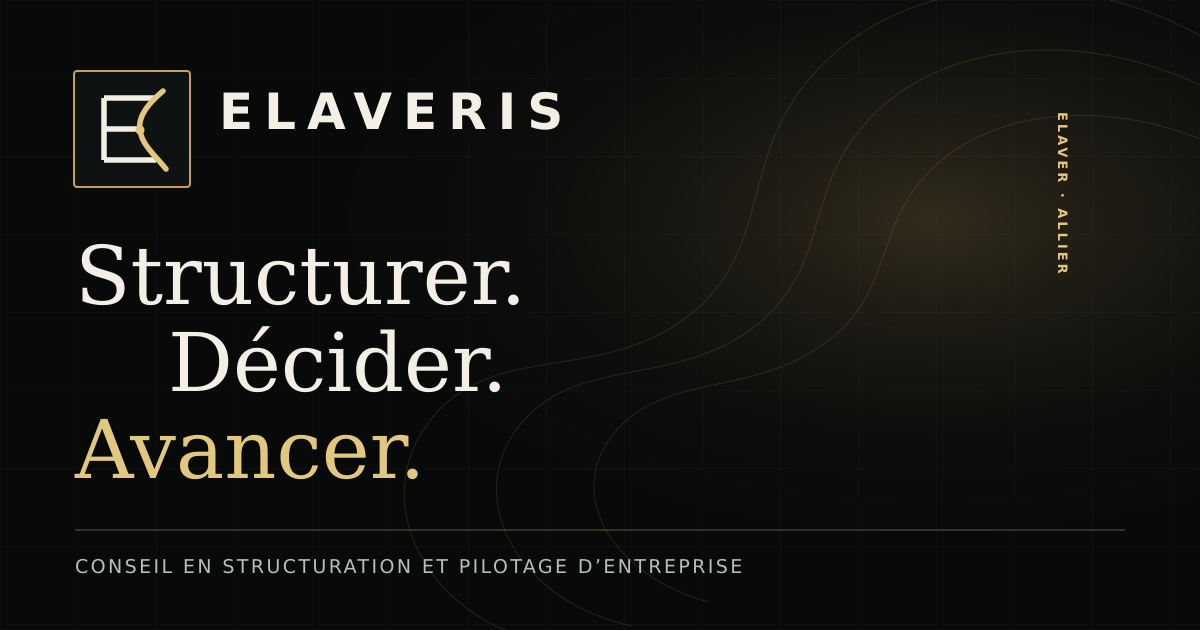
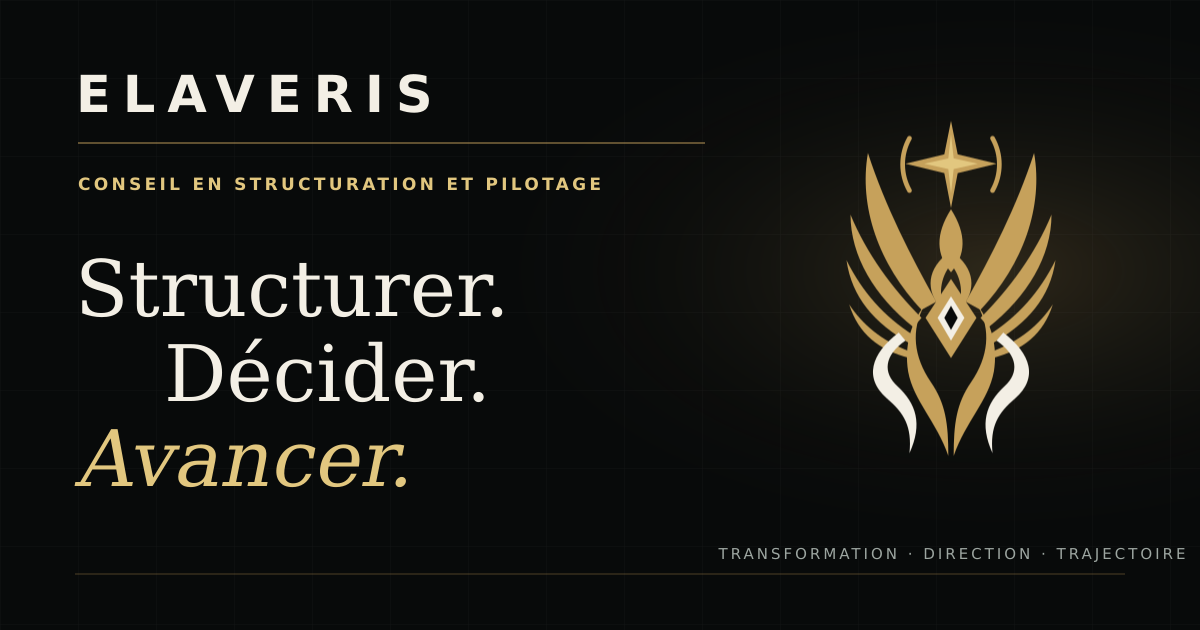
Intègre la nouvelle identité visuelle ELAVERIS

diff --git a/index.html b/index.html
@@ -17,8 +17,11 @@
   <meta property="og:image:height" content="630">
   <meta property="og:image:alt" content="ELAVERIS — Structurer. Décider. Avancer.">
   <meta name="twitter:card" content="summary_large_image">
+  <meta name="twitter:image" content="https://evanmarionneau.github.io/axium-site/og-elaveris.png">
   <link rel="canonical" href="https://evanmarionneau.github.io/axium-site/">
   <link rel="icon" href="favicon.svg" type="image/svg+xml">
+  <link rel="apple-touch-icon" href="favicon-preview.png">
+  <link rel="preload" href="logo-elaveris-symbol.svg" as="image" type="image/svg+xml">
   <title>ELAVERIS — Conseil en structuration et pilotage d’entreprise</title>
   <script>document.documentElement.classList.replace('no-js', 'js');</script>
   <style>
@@ -149,7 +152,7 @@
     }
     .header-inner { display: flex; align-items: center; min-height: 86px; }
     .brand { display: inline-flex; align-items: center; gap: .8rem; flex: 0 0 auto; }
-    .brand-mark { width: 46px; height: 46px; }
+    .brand-mark { width: 46px; height: 46px; object-fit: contain; filter: drop-shadow(0 5px 12px rgba(198,161,91,.14)); }
     .brand-copy { display: grid; line-height: 1; }
     .brand-copy strong { color: var(--white); font-size: 1rem; letter-spacing: .23em; }
     .brand-copy small { margin-top: .42rem; color: var(--gold-bright); font-size: .55rem; letter-spacing: .18em; text-transform: uppercase; }
@@ -261,14 +264,12 @@
       position: absolute;
       top: 50%;
       left: 50%;
-      border: 1px solid rgba(226,199,127,.16);
-      border-radius: 50%;
       transform: translate(-50%, -50%);
       content: "";
     }
-    .identity-symbol::before { width: 265px; height: 265px; }
-    .identity-symbol::after { width: 190px; height: 190px; }
-    .identity-symbol svg { position: absolute; z-index: 2; top: 50%; left: 50%; width: 230px; transform: translate(-50%, -50%); }
+    .identity-symbol::before { width: 240px; height: 280px; background: radial-gradient(ellipse, rgba(198,161,91,.13), transparent 68%); }
+    .identity-symbol::after { width: 1px; height: 270px; background: linear-gradient(transparent, rgba(226,199,127,.22), transparent); }
+    .identity-symbol img { position: absolute; z-index: 2; top: 50%; left: 50%; width: 208px; height: 286px; object-fit: contain; filter: drop-shadow(0 18px 34px rgba(0,0,0,.38)); transform: translate(-50%, -50%); }
     .identity-coordinates { position: absolute; top: 50%; right: -25px; color: rgba(255,255,255,.42); font-size: .56rem; letter-spacing: .2em; transform: rotate(90deg); }
     .identity-note {
       position: absolute;
@@ -347,7 +348,7 @@
     .origin-card { position: relative; min-height: 570px; padding: 2.4rem; overflow: hidden; border: 1px solid var(--line); background: var(--obsidian); }
     .origin-card::before { position: absolute; top: -18%; right: -26%; width: 420px; height: 420px; border: 1px solid rgba(226,199,127,.18); border-radius: 50%; box-shadow: 0 0 0 55px rgba(226,199,127,.035), 0 0 0 110px rgba(226,199,127,.025); content: ""; }
     .origin-label { color: var(--gold-bright); font-size: .62rem; font-weight: 800; letter-spacing: .18em; text-transform: uppercase; }
-    .origin-monogram { position: absolute; top: 116px; right: 45px; width: 260px; opacity: .9; }
+    .origin-monogram { position: absolute; top: 72px; right: 28px; width: 245px; height: 330px; object-fit: contain; opacity: .46; filter: drop-shadow(0 18px 35px rgba(198,161,91,.12)); }
     .origin-copy { position: absolute; right: 2.4rem; bottom: 2.4rem; left: 2.4rem; }
     .origin-copy span { color: var(--gold-bright); font-family: var(--serif); font-size: 4.5rem; line-height: 1; }
     .origin-copy h3 { margin: .7rem 0 1rem; font-family: var(--serif); font-size: 2rem; font-weight: 400; }
@@ -515,7 +516,7 @@
       .method-step b { grid-row: span 2; width: 52px; height: 52px; margin-bottom: 0; }
       .method-step h3 { margin-top: .15rem; }
       .origin-card { min-height: 490px; padding: 1.5rem; }
-      .origin-monogram { top: 105px; right: 12px; width: 235px; }
+      .origin-monogram { top: 72px; right: -5px; width: 215px; height: 285px; }
       .origin-copy { right: 1.5rem; bottom: 1.5rem; left: 1.5rem; }
       .origin-copy span { font-size: 3.6rem; }
       .values { grid-template-columns: 1fr; }
@@ -539,12 +540,7 @@
   <header class="site-header" id="site-header">
     <div class="container header-inner">
       <a class="brand" href="#accueil" aria-label="ELAVERIS — Accueil">
-        <svg class="brand-mark" viewBox="0 0 64 64" aria-hidden="true">
-          <rect x="1" y="1" width="62" height="62" rx="2" fill="#0f1212" stroke="#c6a15b" stroke-width="1.2"/>
-          <path d="M17 15V49M17 15H45M17 32H38M17 49H45" fill="none" stroke="#f3efe5" stroke-width="3.1" stroke-linecap="square"/>
-          <path d="M47 11C38 19 34 25 35 32C36 40 43 44 49 52" fill="none" stroke="#e2c77f" stroke-width="3.2" stroke-linecap="round"/>
-          <circle cx="35" cy="32" r="2.8" fill="#e2c77f"/>
-        </svg>
+        <img class="brand-mark" src="logo-elaveris-symbol.svg" alt="">
         <span class="brand-copy"><strong>ELAVERIS</strong><small>Structurer · Décider · Avancer</small></span>
       </a>
 
@@ -589,17 +585,13 @@
         </div>
 
         <aside class="identity-card reveal reveal-delay-2" aria-label="Identité ELAVERIS, enracinée dans l’Allier">
-          <div class="identity-top"><span>Elaver · Allier</span><span>46.1319° N</span></div>
+          <div class="identity-top"><span>Elaver · Trajectoire</span><span>46.1319° N</span></div>
           <div class="identity-symbol">
-            <svg viewBox="0 0 260 260" role="img" aria-label="Monogramme ELAVERIS">
-              <path d="M66 46V212M66 46H190M66 129H159M66 212H190" fill="none" stroke="#f3efe5" stroke-width="8"/>
-              <path d="M198 26C157 61 140 96 145 130C150 167 181 187 206 230" fill="none" stroke="#e2c77f" stroke-width="8" stroke-linecap="round"/>
-              <circle cx="145" cy="130" r="9" fill="#e2c77f"/>
-            </svg>
+            <img src="logo-elaveris-symbol.svg" alt="Phénix abstrait ELAVERIS orienté vers une étoile directionnelle">
             <span class="identity-coordinates">DIRECTION · STRUCTURE · ACTION</span>
           </div>
           <div class="identity-note">
-            <strong>Une identité enracinée.<br>Une ambition ouverte.</strong>
+            <strong>Une identité en mouvement.<br>Une direction affirmée.</strong>
             <p>ELAVERIS puise son nom dans Elaver, ancien nom de l’Allier — un point d’ancrage pour aider chaque projet à trouver sa trajectoire.</p>
           </div>
         </aside>
@@ -701,11 +693,7 @@
       <div class="container about-grid">
         <article class="origin-card reveal">
           <span class="origin-label">Origine de la marque</span>
-          <svg class="origin-monogram" viewBox="0 0 260 260" aria-hidden="true">
-            <path d="M66 46V212M66 46H190M66 129H159M66 212H190" fill="none" stroke="#f3efe5" stroke-width="8"/>
-            <path d="M198 26C157 61 140 96 145 130C150 167 181 187 206 230" fill="none" stroke="#e2c77f" stroke-width="8" stroke-linecap="round"/>
-            <circle cx="145" cy="130" r="9" fill="#e2c77f"/>
-          </svg>
+          <img class="origin-monogram" src="logo-elaveris-symbol.svg" alt="" aria-hidden="true">
           <div class="origin-copy"><span>Elaver</span><h3>L’Allier comme point d’ancrage.</h3><p>Un nom singulier, enraciné dans le territoire et pensé pour porter une ambition : donner aux projets une structure solide et une direction durable.</p></div>
         </article>
 
@@ -786,12 +774,7 @@
   <footer class="site-footer">
     <div class="container footer-grid">
       <div class="footer-brand">
-        <svg class="brand-mark" viewBox="0 0 64 64" aria-hidden="true">
-          <rect x="1" y="1" width="62" height="62" rx="2" fill="#0f1212" stroke="#c6a15b" stroke-width="1.2"/>
-          <path d="M17 15V49M17 15H45M17 32H38M17 49H45" fill="none" stroke="#f3efe5" stroke-width="3.1"/>
-          <path d="M47 11C38 19 34 25 35 32C36 40 43 44 49 52" fill="none" stroke="#e2c77f" stroke-width="3.2" stroke-linecap="round"/>
-          <circle cx="35" cy="32" r="2.8" fill="#e2c77f"/>
-        </svg>
+        <img class="brand-mark" src="logo-elaveris-symbol.svg" alt="">
         <div><strong>ELAVERIS</strong><span>Conseil en structuration et pilotage</span></div>
       </div>
       <div class="footer-right"><p>© <span id="year"></span> ELAVERIS · Projet en cours de création</p><p><a href="mailto:[email redacted]">Contact</a></p></div>